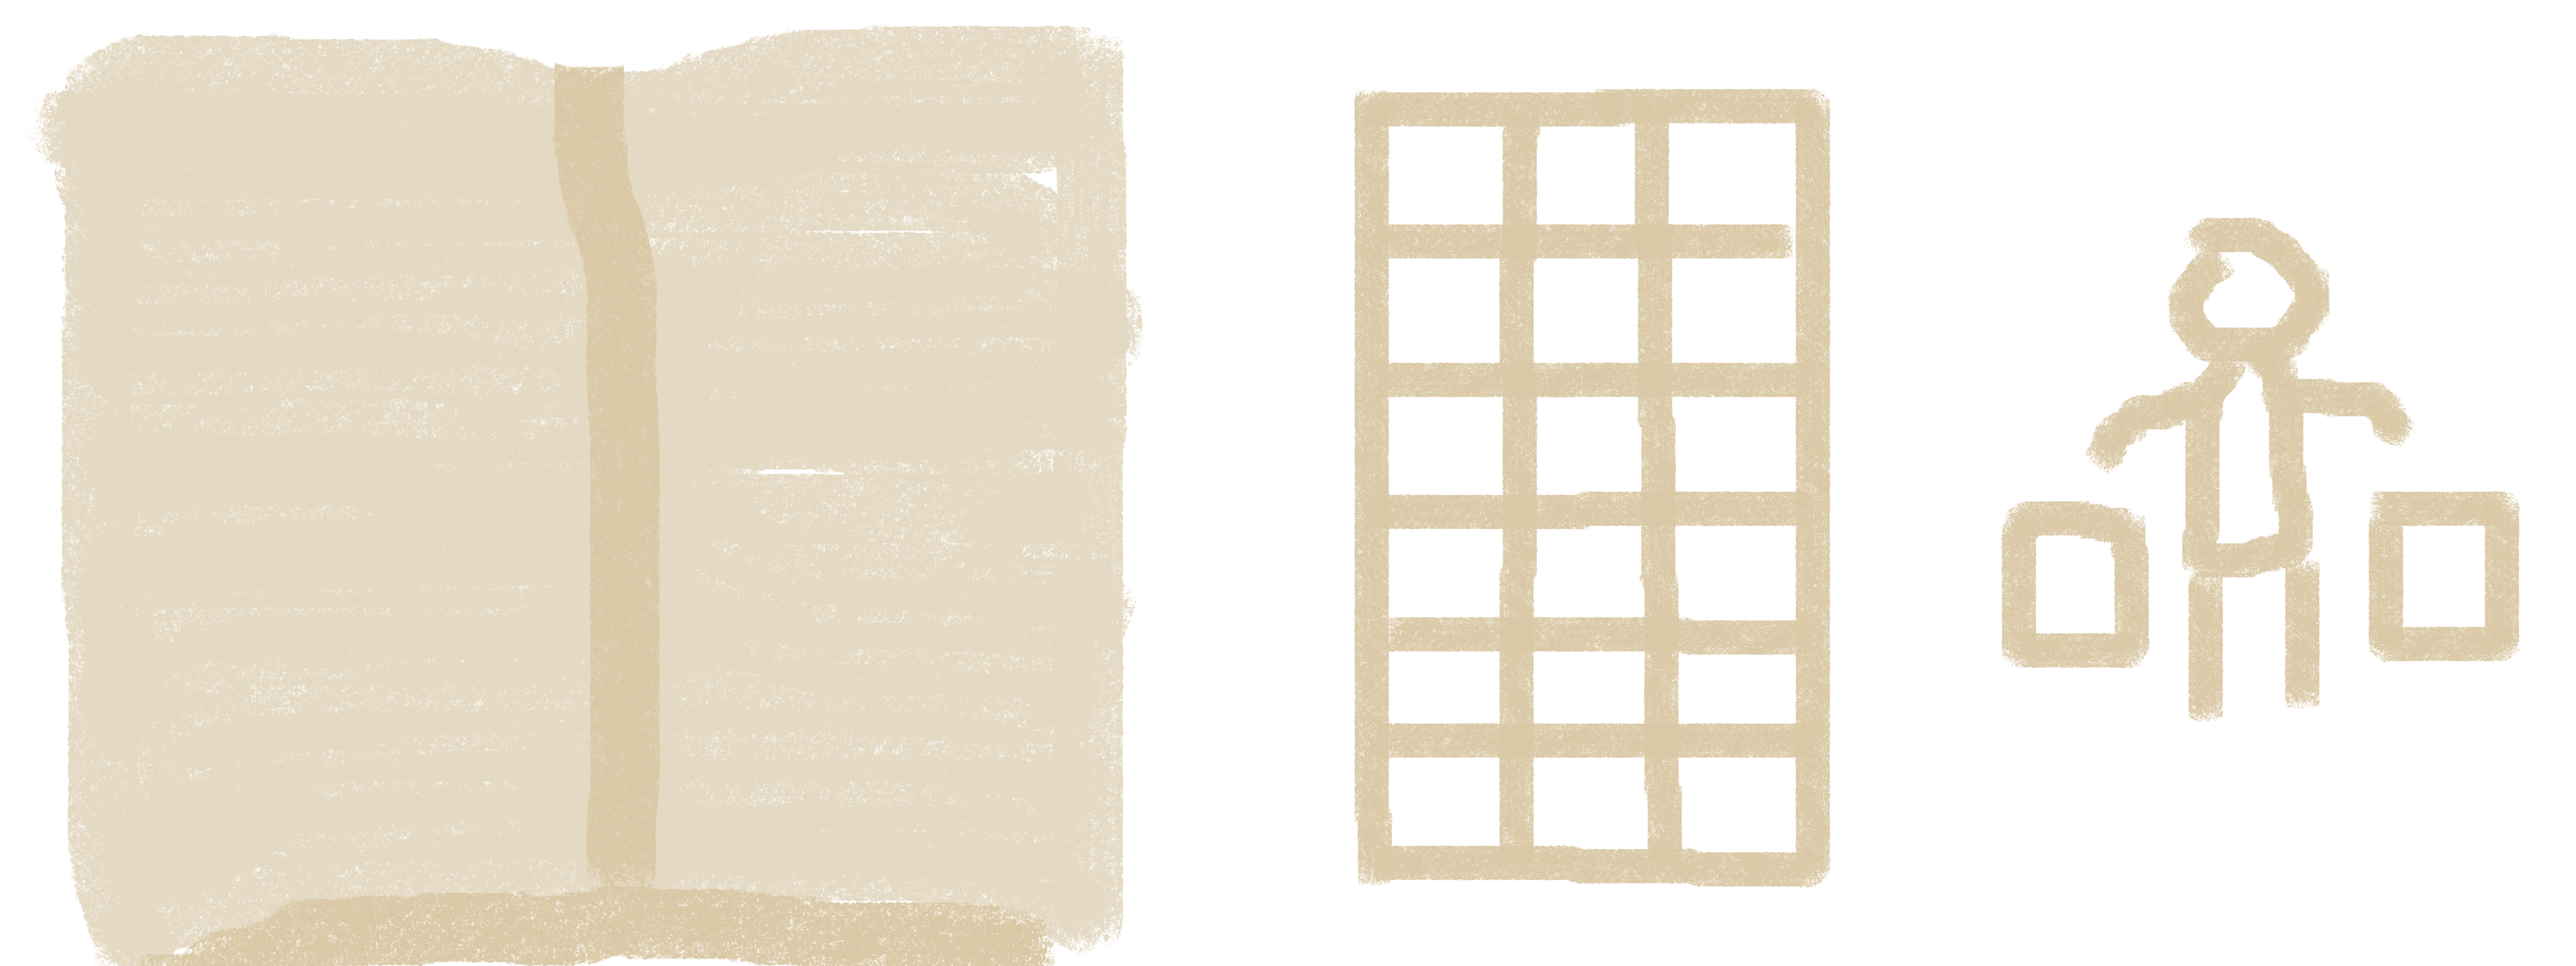
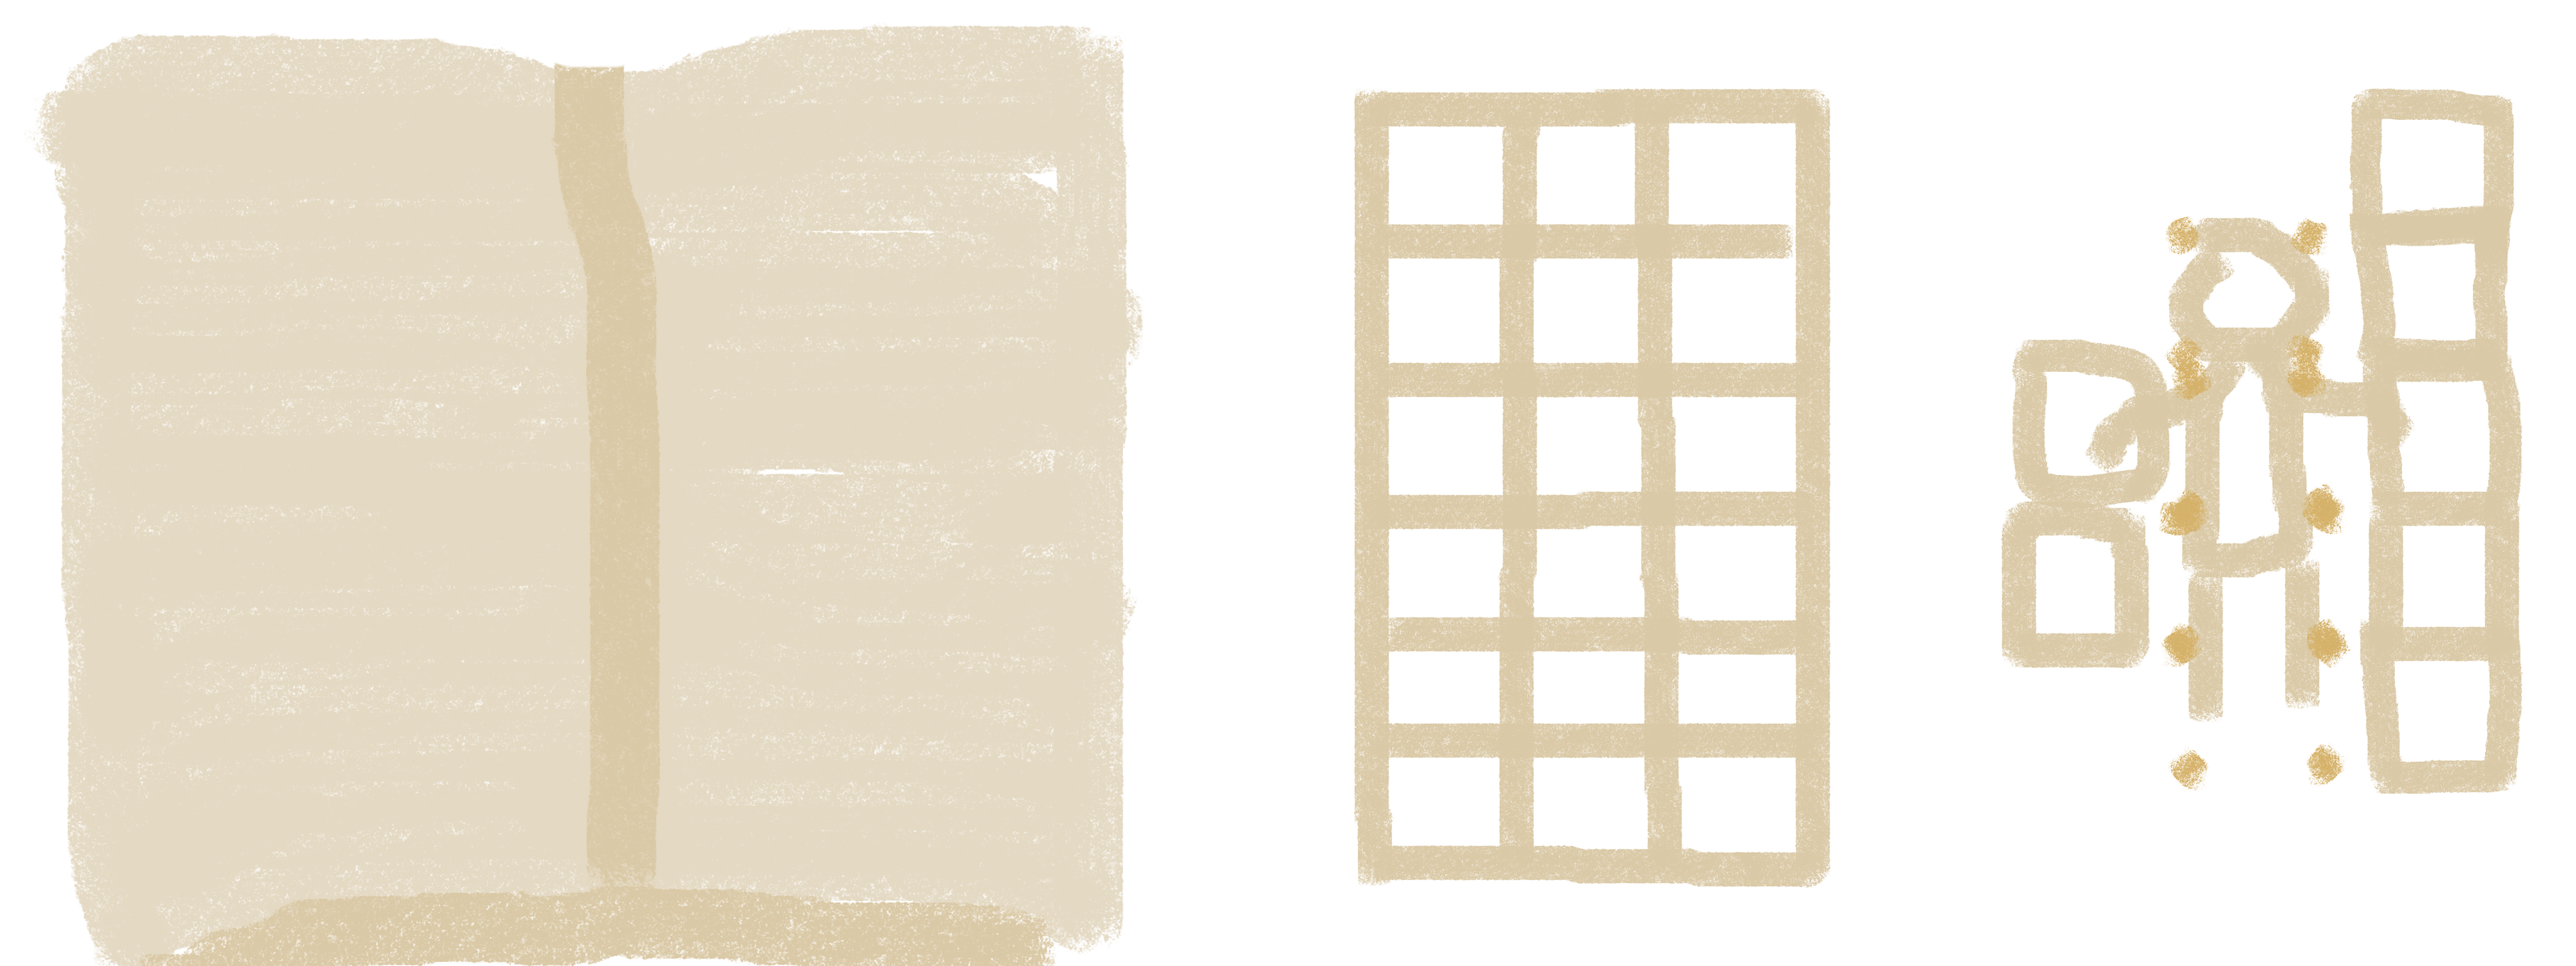
Changed manequinn picture. Made it possible to drop item only from beyound borders of the book.

Changed region(s): [[0.7812, 0.0925, 1.0, 0.555], [0.8438, 0.6475, 1.0, 0.8325]]

diff --git a/Unity/Assets/MyAssets/Scripts/InventoryMovement.cs b/Unity/Assets/MyAssets/Scripts/InventoryMovement.cs
@@ -9,6 +9,8 @@ public class InventoryMovement : MonoBehaviour
     Inventory playerInventory;
     Inventory otherInventory;
     List<GameObject> WeaponList;
+    private float bookWidth;
+    private float bookHeight;
     public int width = 3;
     public int height = 6;
     public float gridWidth = 150;
@@ -29,6 +31,9 @@ public class InventoryMovement : MonoBehaviour
 
     private void Start()
     {
+        GameObject Book = GameObject.Find("Book");
+        bookWidth = Book.GetComponent<RectTransform>().rect.width;
+        bookHeight = Book.GetComponent<RectTransform>().rect.height;
         MenuOffsetX = GameObject.Find("Menus").transform.position.x;
         MenuOffsetY = GameObject.Find("Menus").transform.position.y;
         for (int i = 0; i < SecondaryMenuItems.Count; i++)
@@ -183,6 +188,10 @@ public class InventoryMovement : MonoBehaviour
                 }
             }
         }
+        if ((X >= (-bookWidth / 2)) && (X <= (bookWidth / 2)) && (Y >= (-bookHeight / 2)) && (Y <= (bookHeight / 2)))
+        {
+            return -2;
+        }
         return -1;
     }
 
@@ -298,6 +307,11 @@ public class InventoryMovement : MonoBehaviour
     public void Clicked(float X, float Y)
     {
         int clicked2 = CalculateButtonNumberByCoordinates(X - MenuOffsetX, Y - MenuOffsetY);
+        if (clicked2 == -2)
+        {
+            primary = prevprimary;
+            return;
+        }
         if (primary)
         {
             if ((clicked == -1) && (clicked2 != -1))
